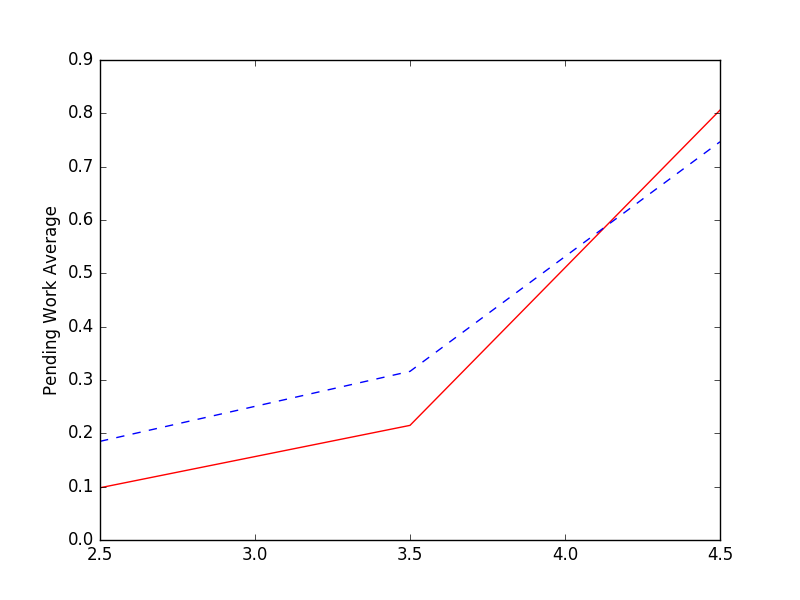
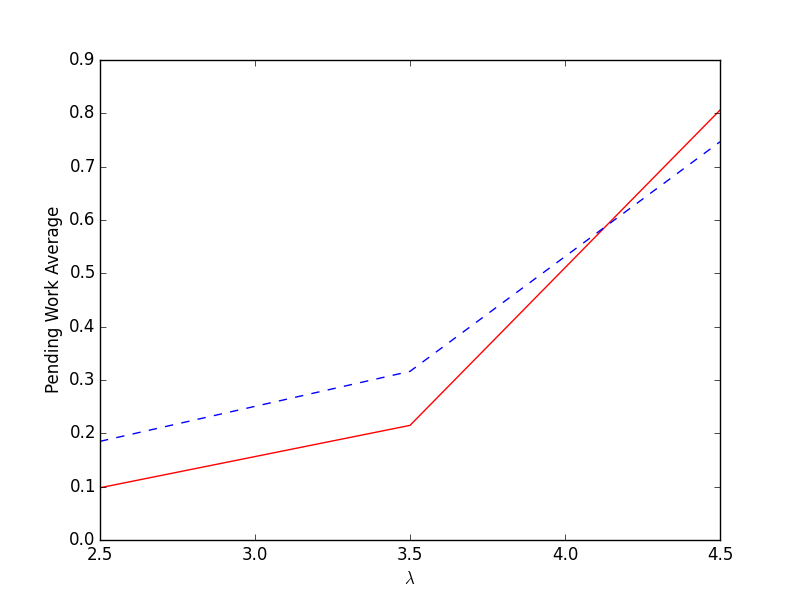
Graficos com o lambda de legenda e fix no plot.py

diff --git a/plot.py b/plot.py
@@ -103,6 +103,8 @@ def main():
         analytic = np.array(analytic)
         simulated2 = np.array(simulated2)
 
+        plt.xlabel(r'$\lambda$')
+
         print "     generating plot"
 
         if i != 6:
